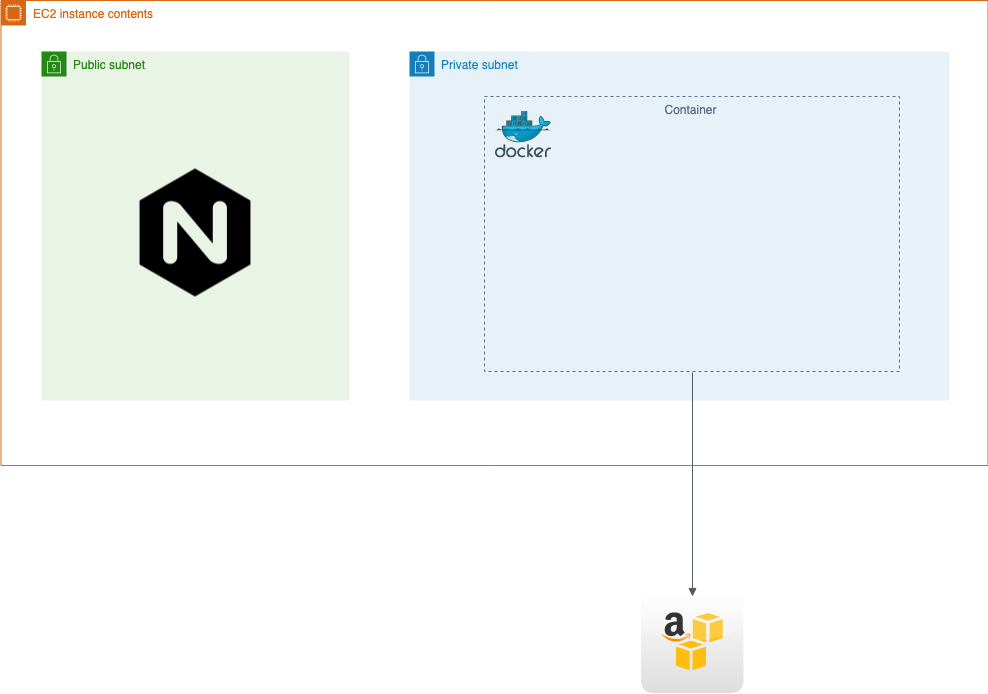
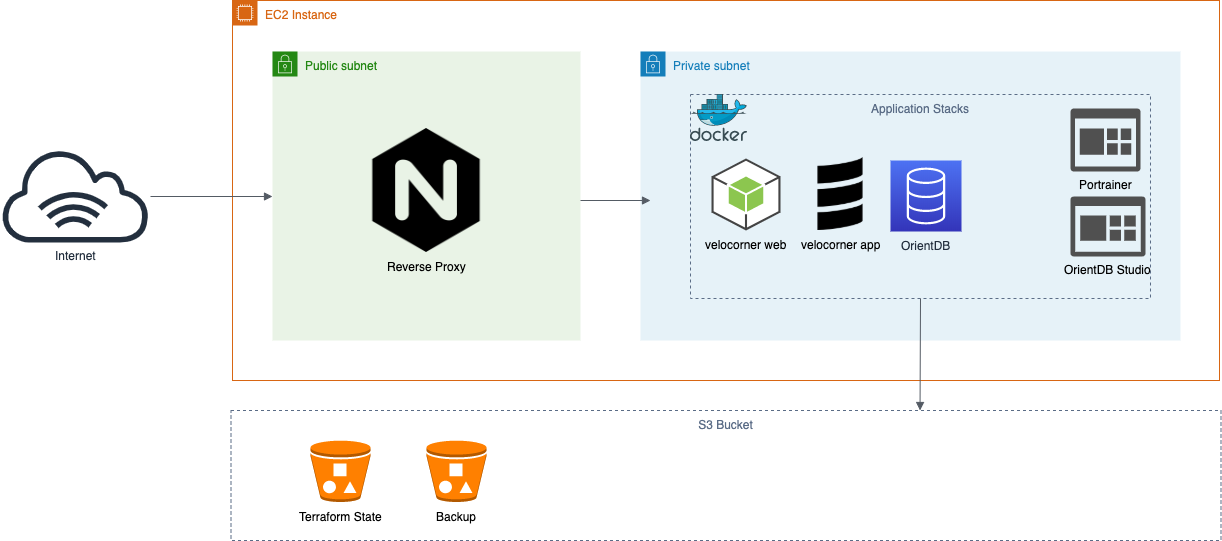
provision nginx and docker in local and aws environments

diff --git a/README.md b/README.md
@@ -11,24 +11,31 @@ Repository provides the setup for creating local (VirtualBox) or remote (AWS) in
 * [Ansible](https://www.ansible.com/) for provisioning tool
   
 # Overview
-The setup consists of two steps, setting up the machines (locally or remotely) and provisioning the application
-deployment and configuration.
+The setup consists of the following steps, setting up the machines (locally or remotely)
+, provisioning the infrastructure and deploying the application stack.
 
 ![overview](https://raw.github.com/peregin/my-little-infra/master/doc/infra.png "infra")
 
-## Machine
-Creates and keeps up to date infrastructure.
+## Machines in the Infrastructure
+Creates and and destroys the infrastructure (looked as abstractions over machines).
 ```bash
 # env local|aws
 # command create|destroy
 machine.sh <env> [command]
 ```
 
-## Provision
-Provisions the infrastructure.
+## Provision the Infrastructure
+Installs and configures the infrastructure.
 ```bash
 # env local|aws
 provision.sh <env>
+```
+
+## Application Stack Deployment
+Deploys the application stack mainly running in docker containers.
+```bash
+# env local|aws
+deploy.sh <env>
 ```
 
 
